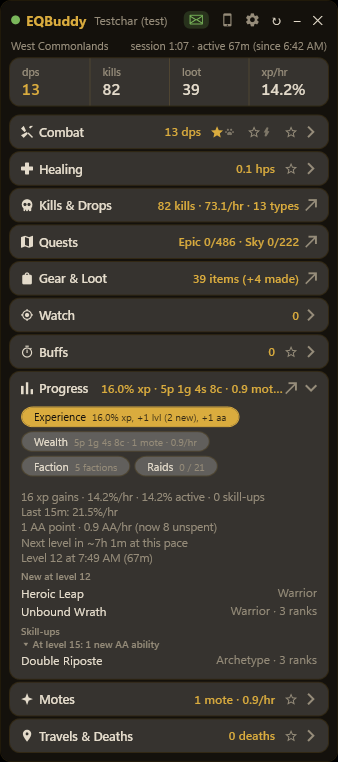
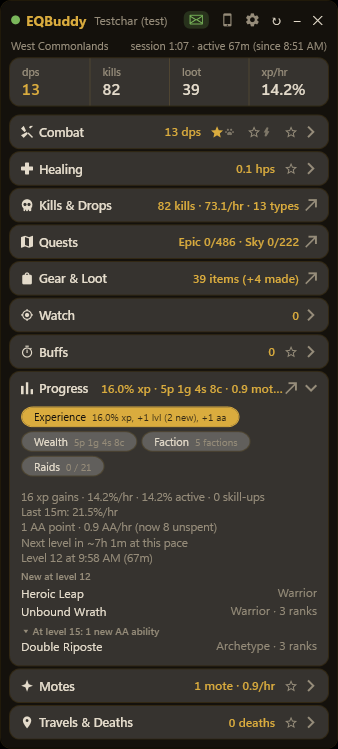
The Experience room stops drawing a "Skill-ups" heading with nothing under it
Found by looking at docs/screenshots/theme-inline-progress.png. The label was added
unconditionally while the ding and AA labels beside it were fields whose visibility
is decided in Render -- it was the odd one out, and on any session without a skill
raise it drew a heading over nothing, which reads as a list that failed to load
rather than a session that had none.

Both hosts, because both draw the same view: the widget's inline card and the
Progress window's Experience tab. Avalonia twin fixed in the same change.

Pinned rather than trusted: progressSkillLabel joins the EQBUDDY_EXPAND dump and
E2E asserts it stays down on the fixture session, for the reason
MoneyCardView.SoldShown exists -- a heading that stops appearing is invisible in a
diff, a build, and every unit test, and the WPF layer has none of its own.

Re-shot to confirm rather than assumed. The strip also re-wrapped in that picture,
which is the coin-only Wealth chip from earlier being shorter -- expected, not a
second change.

Gates: 2,357 unit, 271 Avalonia, 24 E2E.

diff --git a/src/EQBuddy/ProgressCardView.cs b/src/EQBuddy/ProgressCardView.cs
@@ -40,6 +40,13 @@ internal sealed class ProgressCardView : IWidgetCard
     private readonly TextBlock _dingLabel = SectionLabel();
     private readonly ItemsControl _dingList = new();
     private readonly ItemsControl _skillList = new();
+    /// <summary>A FIELD, not an inline label, so it can hide when there is nothing under
+    /// it. It was added unconditionally until 2026-08-22 and every session with no
+    /// skill-ups drew a heading with nothing beneath it — visible in
+    /// docs/screenshots/theme-inline-progress.png, and in the Progress WINDOW too, since
+    /// both hosts draw this same view. The ding and AA labels beside it were fields from
+    /// the start; this one was the odd one out.</summary>
+    private readonly TextBlock _skillLabel = SectionLabel("Skill-ups");
     private readonly TextBlock _aaNewLabel = SectionLabel("AA learned this session");
     private readonly ItemsControl _aaNewList = new();
     private readonly EqFoldLabel _aaAllLabel = new() { Section = true, Open = false };
@@ -57,6 +64,11 @@ internal sealed class ProgressCardView : IWidgetCard
     public bool NextShown => _nextLabel.Visibility == Visibility.Visible;
     public int NextRows => _nextList.Items.Count;
     public int SkillRows => _skillList.Items.Count;
+
+    /// <summary>Whether the "Skill-ups" heading is up. Pinned for the reason
+    /// <c>MoneyCardView.SoldShown</c> is: a heading that stops appearing is invisible in a
+    /// diff, a build and every unit test, and the WPF layer has none of its own.</summary>
+    public bool SkillLabelShown => _skillLabel.Visibility == Visibility.Visible;
     public int AaNewRows => _aaNewList.Items.Count;
     public int AaAllRows => _aaAllList.Items.Count;
 
@@ -112,7 +124,7 @@ internal sealed class ProgressCardView : IWidgetCard
         _panel.Children.Add(_summary);
         _panel.Children.Add(_dingLabel);
         _panel.Children.Add(_dingList);
-        _panel.Children.Add(SectionLabel("Skill-ups"));
+        _panel.Children.Add(_skillLabel);
         _panel.Children.Add(_skillList);
         _panel.Children.Add(_aaNewLabel);
         _panel.Children.Add(_aaNewList);
@@ -187,6 +199,8 @@ internal sealed class ProgressCardView : IWidgetCard
 
         EqCardRows.Fill(_skillList,
             s.SkillUps.Select(k => new CardRow(k.Skill, $"{k.Value} (+{k.Ups})")));
+        _skillLabel.Visibility = _skillList.Items.Count > 0
+            ? Visibility.Visible : Visibility.Collapsed;
 
         // AA display, rethought (Reddit, 2026-08-11: "is it supposed to just show newly
         // learned this session?" — yes): session-new AAs lead, the full ledger folds

diff --git a/src/EQBuddy.Avalonia/MainWindow.cs b/src/EQBuddy.Avalonia/MainWindow.cs
@@ -1,4 +1,4 @@
-using System.Diagnostics;
+using System.Diagnostics;
 using System.IO;
 using Avalonia;
 using Avalonia.Controls;
@@ -239,6 +239,7 @@ public sealed class MainWindow : Window, IZoneHost, IQuestsHost, IDropsHost, IBu
     private readonly StackPanel _trackedPanel = new();
     private readonly ItemsControl _soldList = new();
     private readonly ItemsControl _skillList = new();
+    private readonly TextBlock _skillLabel = AppTheme.Heading("Skill-ups");
     private readonly EqFoldLabel _aaAbilitiesLabel = new() { Section = true };
     private readonly ItemsControl _aaAbilityList = new();
     private readonly ItemsControl _factionList = new();
@@ -1360,7 +1361,10 @@ public sealed class MainWindow : Window, IZoneHost, IQuestsHost, IDropsHost, IBu
         panel.Children.Add(_nextUnlocksLabel);
         _nextUnlocksList.IsVisible = false;
         panel.Children.Add(_nextUnlocksList);
-        panel.Children.Add(AppTheme.Heading("Skill-ups"));
+        // Hidden when there is nothing under it — a heading with no rows reads as a
+        // surface that failed to load. Its WPF twin had the same bug and the same fix.
+        _skillLabel.IsVisible = false;
+        panel.Children.Add(_skillLabel);
         panel.Children.Add(_skillList);
         // Session-new AAs lead (Reddit, 2026-08-11); the full character ledger folds
         // behind the ▸ label, Pet-abilities style.
@@ -2356,6 +2360,7 @@ public sealed class MainWindow : Window, IZoneHost, IQuestsHost, IDropsHost, IBu
             else _nextUnlocksList.IsVisible = false;
 
             FillList(_skillList, s.SkillUps.Select(k => (k.Skill, $"{k.Value} (+{k.Ups})")));
+            _skillLabel.IsVisible = _skillList.Items.Count > 0;
             // AA display, rethought (Reddit, 2026-08-11: "is it supposed to just show
             // newly learned this session?" — yes, now it is): session-new AAs lead,
             // the full ledger folds behind a click, same idiom as Pet abilities.

diff --git a/tests/EQBuddy.E2E/EndToEndTests.cs b/tests/EQBuddy.E2E/EndToEndTests.cs
@@ -574,6 +574,25 @@ public sealed class EndToEndTests
         app.WaitForDump("progressTabs", 4, "all four Progress tabs");
     }
 
+    /// <summary>A heading with nothing under it reads as a surface that failed to load.
+    /// The Experience room drew "Skill-ups" unconditionally until 2026-08-22 — on the
+    /// widget card AND in this window, since both hosts draw the same view — and the
+    /// fixture session has no skill-ups, so it is exactly the state a screenshot caught
+    /// and no test could. Same shape as MoneyCardView's sold block.</summary>
+    [Fact]
+    public void TheSkillUpsHeadingStaysDownWhenThereAreNoSkillUps()
+    {
+        using var app = new AppHarness(environment: new Dictionary<string, string>
+        {
+            ["EQBUDDY_PROGRESS"] = "1",
+        });
+        app.Launch();
+
+        app.WaitForWindow("progressSkillLabel", "the Progress window to open on Experience");
+        app.WaitForDump("progressSkills", 0, "no skill-ups in the fixture session");
+        app.WaitForDump("progressSkillLabel", 0, "the heading to stay down with no rows under it");
+    }
+
     /// <summary>
     /// WHO OWNS THE PROGRESS BODY — pinned here BEFORE Inline themes PR 1 turns the
     /// launcher into an expander, which is the only order in which this assertion is

diff --git a/src/EQBuddy/ProgressWindow.xaml.cs b/src/EQBuddy/ProgressWindow.xaml.cs
@@ -1,4 +1,4 @@
-using System.Windows;
+using System.Windows;
 using System.Windows.Controls;
 using System.Windows.Controls.Primitives;
 using EQBuddy.Core;
@@ -266,6 +266,7 @@ public partial class ProgressWindow : Window
         $"progressMoneySoldShown={(_money.SoldShown ? 1 : 0)} " +
         $"progressFaction={_faction.RowCount} " +
         $"progressSkills={_experience.SkillRows} " +
+        $"progressSkillLabel={(_experience.SkillLabelShown ? 1 : 0)} " +
         // The Experience tab's three lists, under the names E2E has asserted on since the
         // Progress CARD existed — kept identical on purpose, because the whole value of
         // ProgressCard_DrawsItsUnlockListsOnADing is that it goes on asking the same
